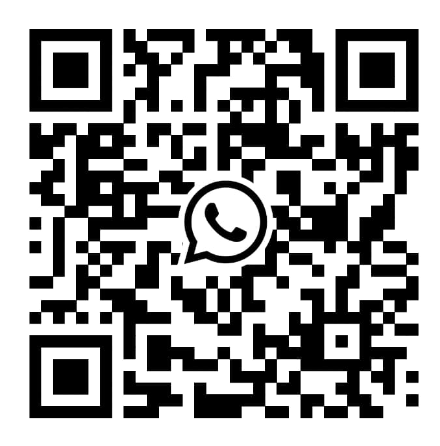
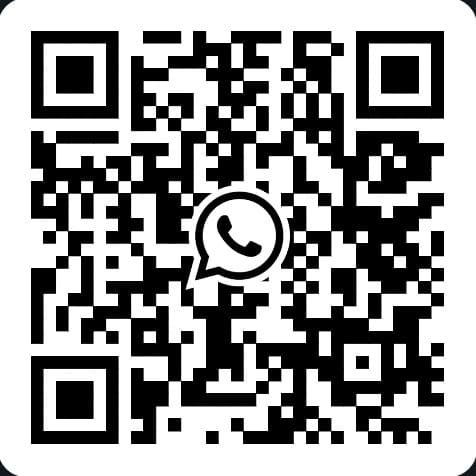
#feat: added new whatsapp community for master class registration

diff --git a/src/app/masterclass-registration/page.tsx b/src/app/masterclass-registration/page.tsx
@@ -34,7 +34,7 @@ const MasterclassRegistration: FC = () => {
                                 <BsWhatsapp className='text-green-500 md:order-1 order-2 text-5xl xl:text-4xl' />
                                 <p className='text-[#212121] md:order-2 order-1 text-xl xl:text-2xl font-bold'>Join this event&apos;s WhatsApp Group</p>
                             </div>
-                            <button onClick={() => window.open('https://chat.whatsapp.com/CyaGIPVVkLP6p6jeZ3EGQG', '_blank')} className='bg-[#1BD742] w-full text-white px-12 py-4 md:hidden block rounded-lg xl:text-xl text-[1rem] font-semibold shadow-[0_3px_10px_rgb(0,0,0,0.2)] hover:scale-95 duration-300'>Join WhatsApp Group</button>
+                            <button onClick={() => window.open('https://chat.whatsapp.com/DUpa7fayyZt8oYX2HrqhFd', '_blank')} className='bg-[#1BD742] w-full text-white px-12 py-4 md:hidden block rounded-lg xl:text-xl text-[1rem] font-semibold shadow-[0_3px_10px_rgb(0,0,0,0.2)] hover:scale-95 duration-300'>Join WhatsApp Group</button>
 
                             <div className='flex items-center justify-center gap-x-3 w-full md:hidden'>
                                 <div className='bg-[#D1D1D1] h-[1.5px] w-[28%]'></div>
@@ -85,7 +85,7 @@ const MasterclassRegistration: FC = () => {
 
                                 <p className='flex justify-center text-[#040A0A] font-semibold'>Click here to join</p>
 
-                                <button onClick={() => window.open('https://chat.whatsapp.com/CyaGIPVVkLP6p6jeZ3EGQG', '_blank')} className='bg-[#1BD742] order-1 text-white px-12 py-4 rounded-lg text-xl font-semibold shadow-[0_3px_10px_rgb(0,0,0,0.2)] hover:scale-95 duration-300'>Join WhatsApp Group</button>
+                                <button onClick={() => window.open('https://chat.whatsapp.com/DUpa7fayyZt8oYX2HrqhFd', '_blank')} className='bg-[#1BD742] order-1 text-white px-12 py-4 rounded-lg text-xl font-semibold shadow-[0_3px_10px_rgb(0,0,0,0.2)] hover:scale-95 duration-300'>Join WhatsApp Group</button>
                             </div>
                         </div>
                     </div>
